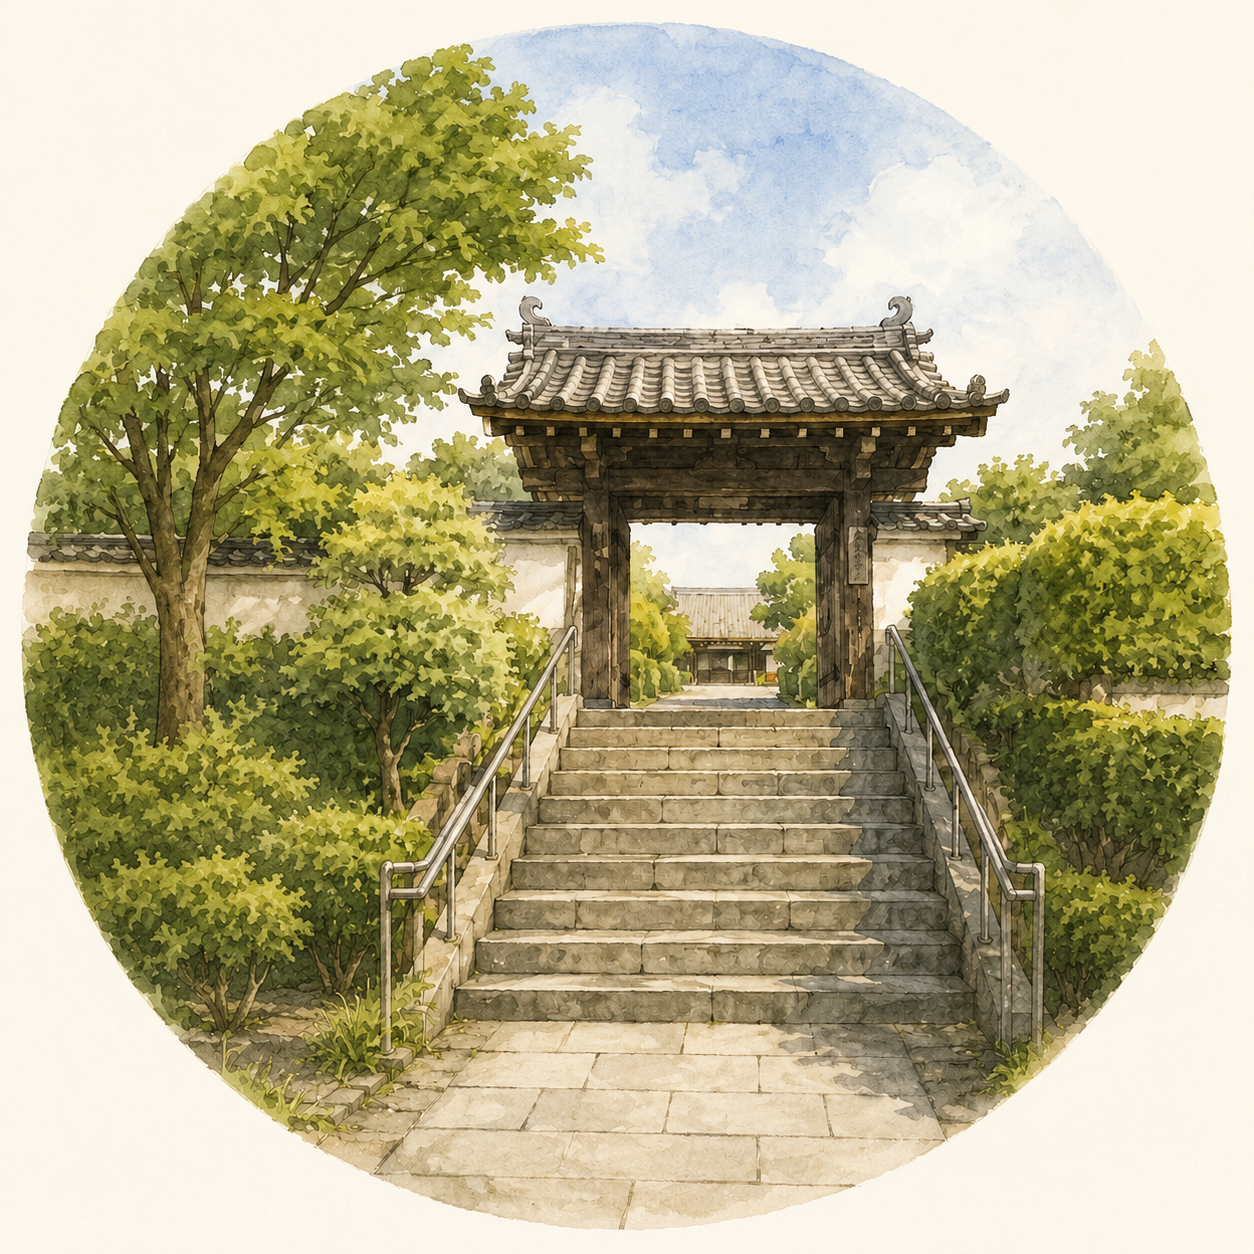
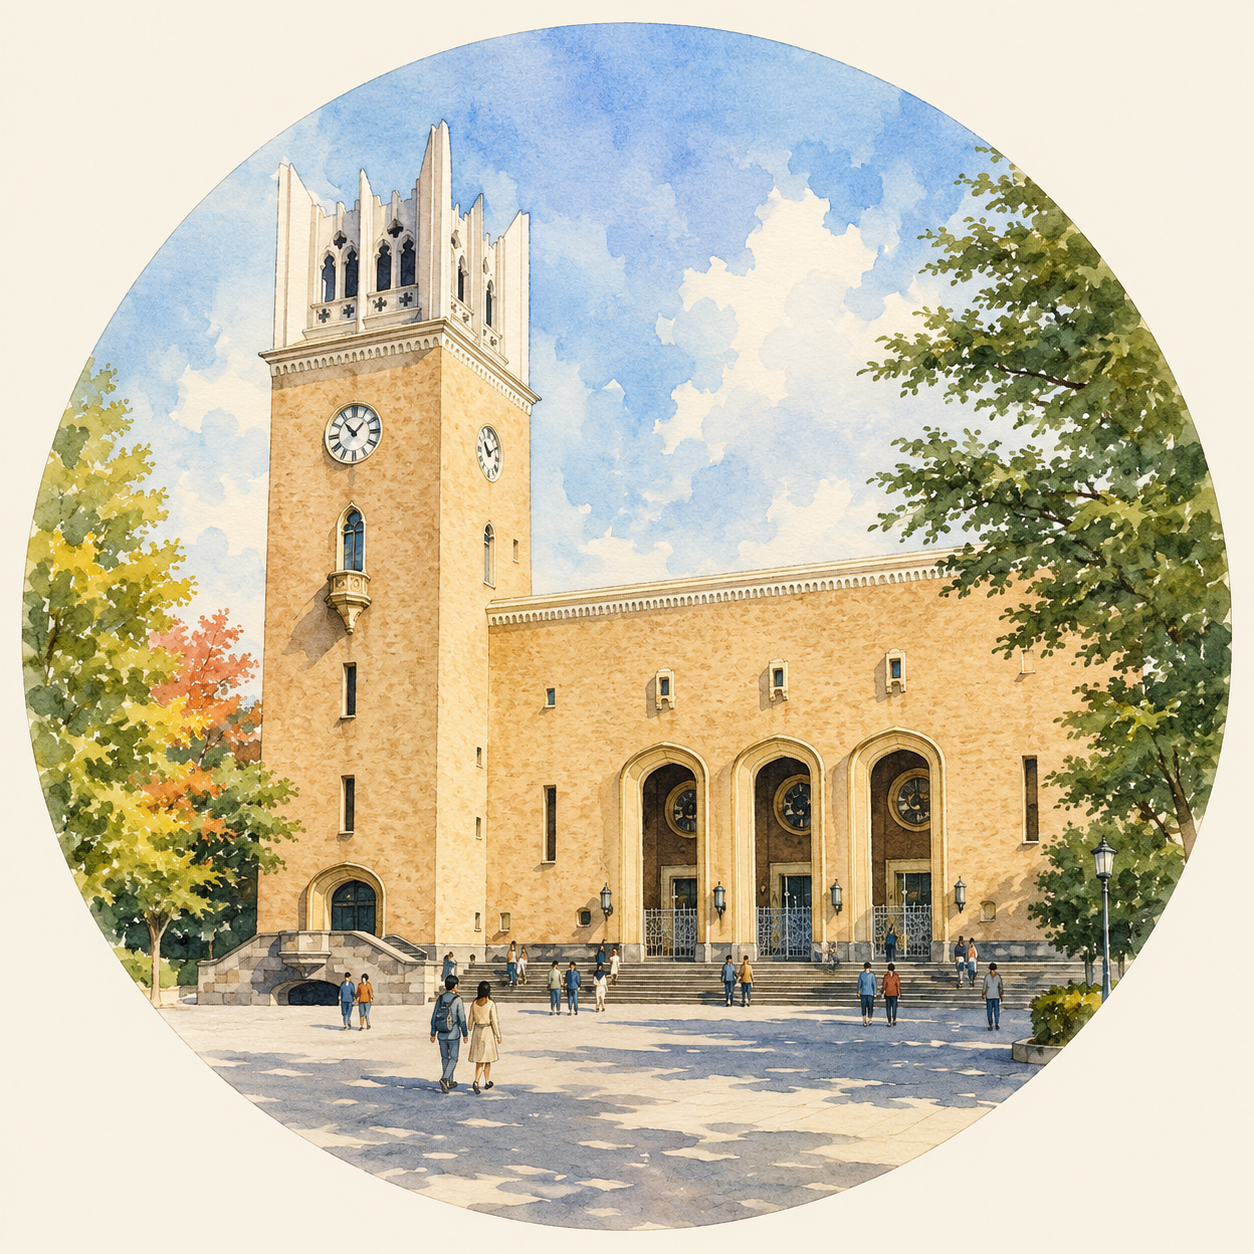
fix: 大塚エリアspot2を東福寺→早稲田大学に差し替え（全5言語）

diff --git a/otsuka/en/index.html b/otsuka/en/index.html
@@ -182,9 +182,9 @@
       <p class="spot__desc">A shrine protecting the area since the Kamakura period, famous for its September mikoshi festival</p>
     </div>
     <div class="area__spot area__spot--spot2">
-      <img src="/otsuka/assets/images/area/spot2_otsuka.png" alt="Kankouzan Tofukuji Temple">
-      <p class="spot__name">Kankouzan Tofukuji Temple</p>
-      <p class="spot__desc">A temple dedicated to a rare goddess, conveying Edo's history of separating Buddhism and Shinto</p>
+      <img src="/otsuka/assets/images/area/spot2_otsuka.png" alt="Waseda University">
+      <p class="spot__name">Waseda University</p>
+      <p class="spot__desc">Founded in 1882. One of Japan's top universities, with 40,000 students on campus.</p>
     </div>
     <div class="area__spot area__spot--hotel">
       <img src="/otsuka/assets/images/area/spot_hotel_circle.png" alt="NEIGHBORS HOTEL TOKYO OTSUKA">

diff --git a/otsuka/ja/index.html b/otsuka/ja/index.html
@@ -182,9 +182,9 @@
       <p class="spot__desc">鎌倉時代から地域を守る、9月の神輿祭りが有名な神社</p>
     </div>
     <div class="area__spot area__spot--spot2">
-      <img src="/otsuka/assets/images/area/spot2_otsuka.png" alt="観光山 東福寺">
-      <p class="spot__name">観光山 東福寺</p>
-      <p class="spot__desc">珍しい女神を祀る、江戸の神仏分離の歴史を伝える寺</p>
+      <img src="/otsuka/assets/images/area/spot2_otsuka.png" alt="早稲田大学">
+      <p class="spot__name">早稲田大学</p>
+      <p class="spot__desc">1882年創立。4万人の学生が行き交う日本トップクラスの大学</p>
     </div>
     <div class="area__spot area__spot--hotel">
       <img src="/otsuka/assets/images/area/spot_hotel_circle.png" alt="NEIGHBORS HOTEL TOKYO OTSUKA">

diff --git a/otsuka/ko/index.html b/otsuka/ko/index.html
@@ -182,9 +182,9 @@
       <p class="spot__desc">가마쿠라 시대부터 지역을 지켜온, 9월 미코시 축제로 유명한 신사</p>
     </div>
     <div class="area__spot area__spot--spot2">
-      <img src="/otsuka/assets/images/area/spot2_otsuka.png" alt="관광잔 도후쿠지">
-      <p class="spot__name">관광잔 도후쿠지</p>
-      <p class="spot__desc">희귀한 여신을 모시는, 에도 신불분리의 역사를 전하는 사찰</p>
+      <img src="/otsuka/assets/images/area/spot2_otsuka.png" alt="와세다 대학교">
+      <p class="spot__name">와세다 대학교</p>
+      <p class="spot__desc">1882년 설립. 4만 명의 학생이 오가는 일본 최고 수준의 대학교.</p>
     </div>
     <div class="area__spot area__spot--hotel">
       <img src="/otsuka/assets/images/area/spot_hotel_circle.png" alt="NEIGHBORS HOTEL TOKYO OTSUKA">

diff --git a/otsuka/zh-hans/index.html b/otsuka/zh-hans/index.html
@@ -182,9 +182,9 @@
       <p class="spot__desc">自镰仓时代守护地方、以9月神辇祭闻名的神社</p>
     </div>
     <div class="area__spot area__spot--spot2">
-      <img src="/otsuka/assets/images/area/spot2_otsuka.png" alt="观光山 东福寺">
-      <p class="spot__name">观光山 东福寺</p>
-      <p class="spot__desc">供奉罕见女神、传承江户神佛分离历史的寺庙</p>
+      <img src="/otsuka/assets/images/area/spot2_otsuka.png" alt="早稻田大学">
+      <p class="spot__name">早稻田大学</p>
+      <p class="spot__desc">创立于1882年。约4万名学生往来其中，是日本顶尖大学之一。</p>
     </div>
     <div class="area__spot area__spot--hotel">
       <img src="/otsuka/assets/images/area/spot_hotel_circle.png" alt="NEIGHBORS HOTEL TOKYO OTSUKA">

diff --git a/otsuka/zh-hant/index.html b/otsuka/zh-hant/index.html
@@ -182,9 +182,9 @@
       <p class="spot__desc">自鎌倉時代守護地方、以9月神輿祭聞名的神社</p>
     </div>
     <div class="area__spot area__spot--spot2">
-      <img src="/otsuka/assets/images/area/spot2_otsuka.png" alt="觀光山 東福寺">
-      <p class="spot__name">觀光山 東福寺</p>
-      <p class="spot__desc">供奉罕見女神、傳承江戶神佛分離歷史的寺廟</p>
+      <img src="/otsuka/assets/images/area/spot2_otsuka.png" alt="早稻田大學">
+      <p class="spot__name">早稻田大學</p>
+      <p class="spot__desc">創立於1882年。約4萬名學生往來其中，是日本頂尖大學之一。</p>
     </div>
     <div class="area__spot area__spot--hotel">
       <img src="/otsuka/assets/images/area/spot_hotel_circle.png" alt="NEIGHBORS HOTEL TOKYO OTSUKA">